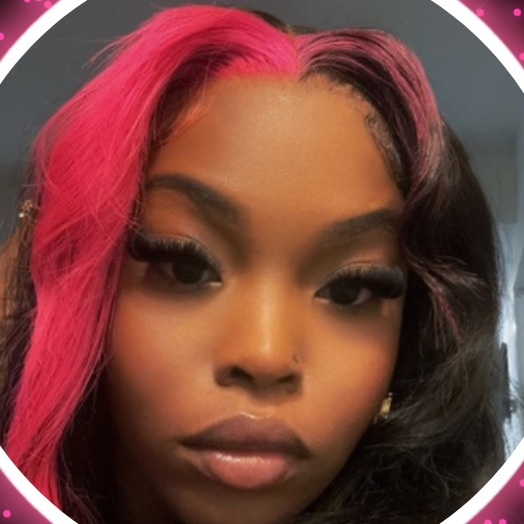
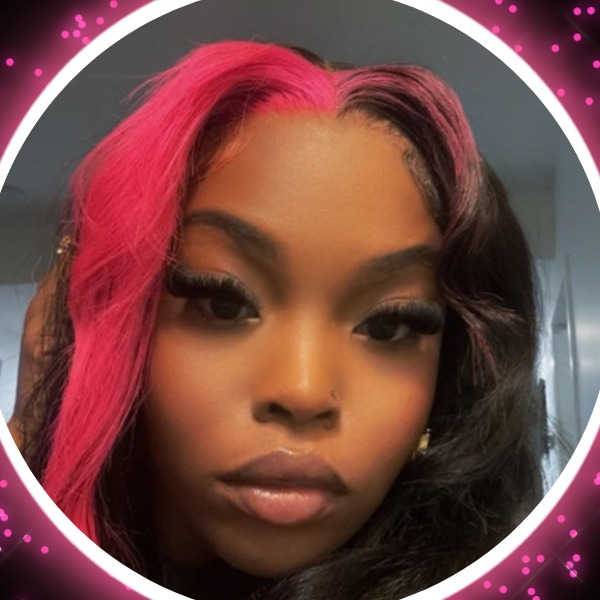
h

diff --git a/index.html b/index.html
@@ -7,7 +7,7 @@
   <link rel="preconnect" href="https://fonts.googleapis.com" />
   <link rel="preconnect" href="https://fonts.gstatic.com" crossorigin />
   <link href="https://fonts.googleapis.com/css2?family=Great+Vibes&family=Montserrat:wght@400;500;600;700&family=Cormorant+Garamond:ital,wght@0,400;0,500;1,400&display=swap" rel="stylesheet" />
-  <link rel="stylesheet" href="styles.css?v=36" />
+  <link rel="stylesheet" href="styles.css?v=37" />
 </head>
 <body>
   <header class="site-nav">
@@ -44,7 +44,7 @@
         <div class="portrait-sparkles" aria-hidden="true"></div>
         <div class="portrait-glow"></div>
         <div class="portrait-clip">
-          <img class="portrait" src="images/stylist-portrait.jpg?v=22" alt="Tonika Lord" />
+          <img class="portrait" src="images/stylist-portrait.jpg?v=23" alt="Tonika Lord" />
         </div>
       </div>
     </div>

diff --git a/book.html b/book.html
@@ -7,7 +7,7 @@
   <link rel="preconnect" href="https://fonts.googleapis.com" />
   <link rel="preconnect" href="https://fonts.gstatic.com" crossorigin />
   <link href="https://fonts.googleapis.com/css2?family=Great+Vibes&family=Montserrat:wght@400;500;600;700&family=Cormorant+Garamond:ital,wght@0,400;0,500;1,400&display=swap" rel="stylesheet" />
-  <link rel="stylesheet" href="styles.css?v=36" />
+  <link rel="stylesheet" href="styles.css?v=37" />
 </head>
 <body class="book-page">
   <header class="book-top">

diff --git a/styles.css b/styles.css
@@ -241,7 +241,7 @@ a {
   width: 100%;
   height: 100%;
   object-fit: cover;
-  object-position: 50% 42%;
+  object-position: 50% 46%;
   transform: none;
   filter: none;
   border: 0;
